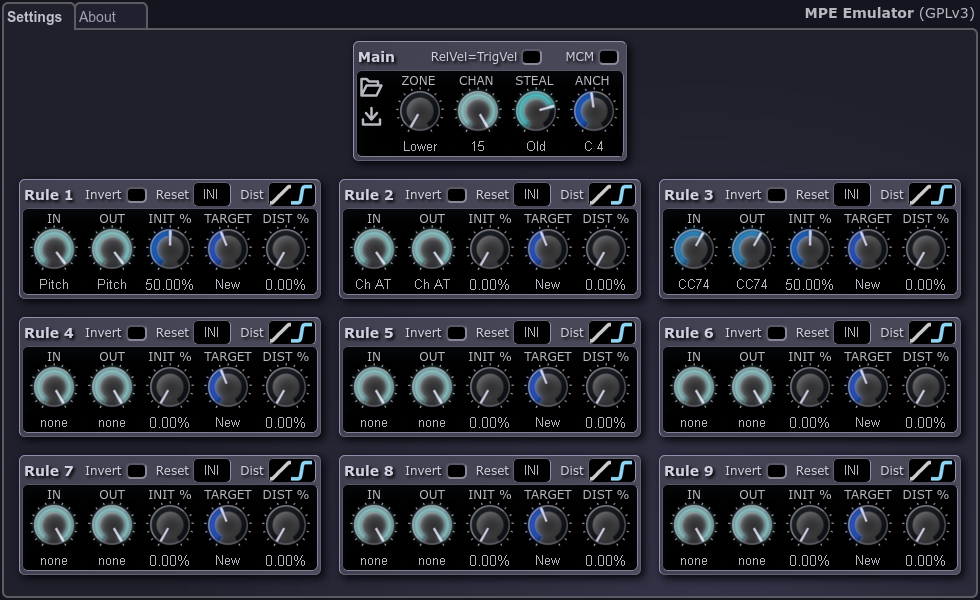
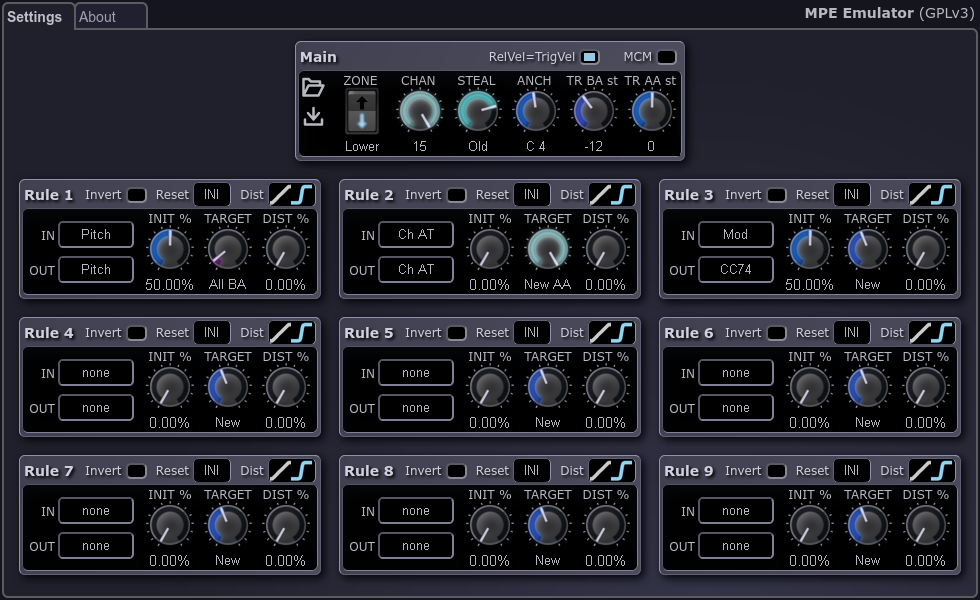
publish v1.0.0

diff --git a/index.html b/index.html
@@ -311,7 +311,7 @@ small {
     </div>
 
     <div id="download">
-      <h2 class="center">Download (v0.0.2)</h2>
+      <h2 class="center">Download (v1.0.0)</h2>
       <div class="section">
         <p class="center">
           <a href="#install-dist">Which distribution should I download?</a>
@@ -323,54 +323,76 @@ small {
               <h4>Windows and Linux, 64 bit and 32 bit</h4>
               <ul>
                 <li>
-                  VST 3 Bundle: <a href="https://github.com/attilammagyar/mpe-emulator/releases/download/v0.0.2/mpe-emulator-0_0_2-sse2-vst3_bundle.zip">Download (4.6M)</a>
+                  VST 3 Bundle: <a href="https://github.com/attilammagyar/mpe-emulator/releases/download/v1.0.0/mpe-emulator-1_0_0-sse2-vst3_bundle.zip">Download (4.6M)</a>
                 </li>
               </ul>
 
               <h4>Windows</h4>
               <ul>
                 <li>
-                  64-bit, VST 3 Single File: <a href="https://github.com/attilammagyar/mpe-emulator/releases/download/v0.0.2/mpe-emulator-0_0_2-windows-x86_64-sse2-vst3_single_file.zip">Download (1.3M)</a>
+                  64-bit, VST 3 Single File: <a href="https://github.com/attilammagyar/mpe-emulator/releases/download/v1.0.0/mpe-emulator-1_0_0-windows-x86_64-sse2-vst3_single_file.zip">Download (1.3M)</a>
                 </li>
                 <li>
-                  64-bit, FST (VST 2.4): <a href="https://github.com/attilammagyar/mpe-emulator/releases/download/v0.0.2/mpe-emulator-0_0_2-windows-x86_64-sse2-fst.zip">Download (1.1M)</a>
+                  64-bit, FST (VST 2.4): <a href="https://github.com/attilammagyar/mpe-emulator/releases/download/v1.0.0/mpe-emulator-1_0_0-windows-x86_64-sse2-fst.zip">Download (1.1M)</a>
                 </li>
                 <li>
-                  32-bit, VST 3 Single File: <a href="https://github.com/attilammagyar/mpe-emulator/releases/download/v0.0.2/mpe-emulator-0_0_2-windows-x86-sse2-vst3_single_file.zip">Download (1.3M)</a>
+                  32-bit, VST 3 Single File: <a href="https://github.com/attilammagyar/mpe-emulator/releases/download/v1.0.0/mpe-emulator-1_0_0-windows-x86-sse2-vst3_single_file.zip">Download (1.4M)</a>
                 </li>
                 <li>
-                  32-bit, FST (VST 2.4): <a href="https://github.com/attilammagyar/mpe-emulator/releases/download/v0.0.2/mpe-emulator-0_0_2-windows-x86-sse2-fst.zip">Download (1.1M)</a>
+                  32-bit, FST (VST 2.4): <a href="https://github.com/attilammagyar/mpe-emulator/releases/download/v1.0.0/mpe-emulator-1_0_0-windows-x86-sse2-fst.zip">Download (1.1M)</a>
                 </li>
               </ul>
 
               <h4>Linux</h4>
               <ul>
                 <li>
-                  64-bit, VST 3 Single File: <a href="https://github.com/attilammagyar/mpe-emulator/releases/download/v0.0.2/mpe-emulator-0_0_2-linux-x86_64-sse2-vst3_single_file.zip">Download (648K)</a>
+                  64-bit, VST 3 Single File: <a href="https://github.com/attilammagyar/mpe-emulator/releases/download/v1.0.0/mpe-emulator-1_0_0-linux-x86_64-sse2-vst3_single_file.zip">Download (664K)</a>
                 </li>
                 <li>
-                  64-bit, FST (VST 2.4): <a href="https://github.com/attilammagyar/mpe-emulator/releases/download/v0.0.2/mpe-emulator-0_0_2-linux-x86_64-sse2-fst.zip">Download (476K)</a>
+                  64-bit, FST (VST 2.4): <a href="https://github.com/attilammagyar/mpe-emulator/releases/download/v1.0.0/mpe-emulator-1_0_0-linux-x86_64-sse2-fst.zip">Download (492K)</a>
                 </li>
                 <li>
-                  32-bit, VST 3 Single File: <a href="https://github.com/attilammagyar/mpe-emulator/releases/download/v0.0.2/mpe-emulator-0_0_2-linux-x86-sse2-vst3_single_file.zip">Download (672K)</a>
+                  32-bit, VST 3 Single File: <a href="https://github.com/attilammagyar/mpe-emulator/releases/download/v1.0.0/mpe-emulator-1_0_0-linux-x86-sse2-vst3_single_file.zip">Download (684K)</a>
                 </li>
                 <li>
-                  32-bit, FST (VST 2.4): <a href="https://github.com/attilammagyar/mpe-emulator/releases/download/v0.0.2/mpe-emulator-0_0_2-linux-x86-sse2-fst.zip">Download (484K)</a>
+                  32-bit, FST (VST 2.4): <a href="https://github.com/attilammagyar/mpe-emulator/releases/download/v1.0.0/mpe-emulator-1_0_0-linux-x86-sse2-fst.zip">Download (500K)</a>
                 </li>
               </ul>
             </div>
           </div>
         </div>
 
+        <h3>MPE Emulator Lite</h3>
+        <ul>
+          <li>
+            MPE Emulator Lite for REAPER (JS): <a href="https://github.com/attilammagyar/mpe-emulator/releases/download/v1.0.0/MPE_Emulator_Lite-v1_0_0.jsfx">Download (68K)</a>
+          </li>
+        </ul>
+
         <h3>Source Code</h3>
         <ul>
           <li>
-            Source: <a href="https://github.com/attilammagyar/mpe-emulator/releases/download/v0.0.2/mpe-emulator-0_0_2-src.zip">Download (2.8M)</a>
+            Source: <a href="https://github.com/attilammagyar/mpe-emulator/releases/download/v1.0.0/mpe-emulator-1_0_0-src.zip">Download (3.2M)</a>
           </li>
         </ul>
       </div>
 
       <div class="section">
+        <h3>What's New in v1.0.0</h3>
+        <ul>
+          <li><p>Transpose the two sides of the split point independently from each other.
+          (E.g. extend the range of small keyboards, or play the same note with
+          different expression settings.)</p></li>
+          <li><p>The user interface has been revised in order to make it easier to select
+          controllers.</p></li>
+          <li><p>MPE Emulator Lite is a JS plugin for REAPER which implements most of
+          MPE Emulator's features, and it runs on any platform where REAPER runs
+          (including various Mac configurations).</p></li>
+          <li><p>Bugfix: the FST (VST 2) plugin will now export all its parameters.</p></li>
+          <li><p>Bugfix: the VST 3 plugin will now initialize and update its exported
+          parameters correctly.</p></li>
+        </ul>
+
         <h3>What's New in v0.0.2</h3>
         <ul>
           <li><p>When notes are released and new notes are triggered, channel allocation will
@@ -437,6 +459,7 @@ small {
 <ul>
 <li><a href="#toc">Table of Contents</a></li>
 <li><a href="#features">Features</a></li>
+<li><a href="#lite">MPE Emulator Lite</a></li>
 <li><a href="#install">Installation</a>
 <ul>
 <li><a href="#install-dist">Before Installing: Choosing a Distribution</a></li>
@@ -451,6 +474,7 @@ small {
 <li><a href="#vst3-bundle-linux">VST 3 Bundle on Linux</a></li>
 <li><a href="#vst3-single-windows">VST 3 Single File on Windows</a></li>
 <li><a href="#vst3-single-linux">VST 3 Single File on Linux</a></li>
+<li><a href="#install-lite">MPE Emulator Lite</a></li>
 </ul></li>
 <li><a href="#usage">Usage</a>
 <ul>
@@ -493,16 +517,27 @@ small {
 vice-versa.</li>
 <li>Invert MIDI expression and controller data, and apply various other
 distortions.</li>
-<li>Use the trigger velocity of notes as release velocity for synths that can
+<li>Use the trigger velocity of notes as release velocity for synths that
 utilize it.</li>
 <li>Split the keyboard and route polyphonic expressions to the two halves with
 different rules.</li>
+<li>Transpose the two sides of the split point independently from each other.
+(E.g. extend the range of small keyboards, or play the same note with
+different expression settings.)</li>
 <li>Route various expressions and controllers to the lowest, highest, oldest, or
 newest note globally, or across the split halves of the keyboard.</li>
 <li>MIDI Learn.</li>
 </ul>
 
 <p><a href="#toc">Table of Contents</a></p>
+
+<p><a id="lite"></a></p>
+
+<h2>MPE Emulator Lite</h2>
+
+<p>MPE Emulator Lite is a platform-independent JS plugin for
+<a href="https://http://reaper.fm/">REAPER</a> v6.74 and above which provides the most
+fundamental <a href="#features">features</a> of MPE Emulator.</p>
 
 <p><a id="install"></a></p>
 
@@ -577,6 +612,12 @@ SSE2 support.</li>
 <li><p><code>mpe-emulator-X_Y_Z-linux-x86-sse2-vst3_single_file.zip</code>: for
 32 bit CPUs with SSE2 support.</p></li>
 </ul></li>
+<li><p>MPE Emulator Lite for any platform that is supported by
+<a href="https://reaper.fm/">REAPER</a>:</p>
+
+<ul>
+<li><code>MPE_Emulator_Lite-vX_Y_Z.jsfx</code></li>
+</ul></li>
 <li><p>Source:</p>
 
 <ul>
@@ -600,6 +641,9 @@ compile for any CPU architecture. (See the "Development" section below.)</li>
 <p>The plugin can also be compiled for RISC-V 64 from its source code.</p>
 
 <p>Tested with <a href="https://www.reaper.fm/">REAPER</a> 7.17.</p>
+
+<p>MPE Emulator Lite runs on any operating system and CPU where REAPER runs. The
+required minimum version of REAPER is v6.74.</p>
 
 <p><a id="windows-deps"></a></p>
 
@@ -709,6 +753,18 @@ is usually <code>~/.vst3</code>.</li>
 <code>~/.vst3</code>.</li>
 </ol>
 
+<p><a id="install-lite"></a></p>
+
+<h3>MPE Emulator Lite</h3>
+
+<ol>
+<li><a href="https://attilammagyar.github.io/mpe-emulator">Download MPE Emulator Lite</a>.</li>
+<li>Copy <code>MPE_Emulator_Lite-vX_Y_Z.jsfx</code> to the <code>Effects</code> folder of REAPER.</li>
+</ol>
+
+<p>Refer to <a href="https://reaper.fm/userguide.php">REAPER's User Guide</a> for more
+information on installing JS plugins.</p>
+
 <p><a href="#toc">Table of Contents</a></p>
 
 <p><a id="usage"></a></p>
@@ -720,11 +776,12 @@ synthesizer plugin in the plugin host application. The exact steps to set up
 MIDI routing vary between different plugin host applications, so consult the
 documentation of your one.</p>
 
-<p class="center">
-  <a class="img" href="mpe-emulator-signal-chain.svg" target="_blank">
-    <img class="signal-chain-img" src="mpe-emulator-signal-chain.svg" alt="Signal Chain" />
-  </a>
-</p>
+<pre><code>+---------------+ single channel +--------------+           +-------------+
+|               | raw MIDI data  |              | MPE data  |             |
+| MIDI keyboard |---------------&gt;| MPE Emulator |----------&gt;| Synthesizer |
+|               |                |              |           |             |
++---------------+                +--------------+           +-------------+
+</code></pre>
 
 <p><a id="usage-knobs"></a></p>
 
@@ -790,7 +847,7 @@ or don't bother, because the synthesizer would just ignore them anyways.</p>
 
 <h4>Zone Type (ZONE, Z1TYP)</h4>
 
-<p>Select the channel layout used by MPE Emulator:</p>
+<p>Click on the switch to change the channel layout used by MPE Emulator:</p>
 
 <ul>
 <li><p><strong>Lower</strong>: channel 1 is the manager channel, channel 2-16 can be used as
@@ -825,10 +882,28 @@ the new note is played on the channel where it used to be.</p></li>
 
 <h4>Anchor (ANCH, Z1ANC)</h4>
 
-<p>A split point for the keyboard. Expression and controller events can be applied
-differently to each side of the split point. For example, one may want to send
-channel pressure (aftertouch) events only to the newest or the highest note
-above A3, but not to bass notes or chords played with the left hand.</p>
+<p>A split point for the keyboard. Each side of the keyboard can be
+<a href="#usage-zone-transpose-below">transposed</a> independently from each other, and
+expression and controller events can be applied differently to them. For
+example, one may want to send channel pressure (aftertouch) events only to the
+newest or the highest note above A3, but not to bass notes or chords played
+with the left hand.</p>
+
+<p><a id="usage-zone-transpose-below"></a></p>
+
+<h4>Transpose Below Anchor (TR BA, Z1TRB)</h4>
+
+<p>Select how many semitones notes below the <a href="#usage-zone-anchor">anchor</a> should
+be transposed up or down. This can be useful e.g. for extending the range of
+small keyboards with only a few octaves, or for playing the same note with
+different expression settings.</p>
+
+<h4>Transpose Above Anchor (TR AA, Z1TRA)</h4>
+
+<p>Select how many semitones notes above the <a href="#usage-zone-anchor">anchor</a> should
+be transposed up or down. This can be useful e.g. for extending the range of
+small keyboards with only a few octaves, or for playing the same note with
+different expression settings.</p>
 
 <p><a href="#toc">Table of Contents</a></p>
 
@@ -840,36 +915,46 @@ above A3, but not to bass notes or chords played with the left hand.</p>
 
 <h4>Input (IN, Z1RxIN)</h4>
 
-<p>The input controller (MIDI CC) type for the rule. CC events that are not
-matched by any rule's input settings are sent globally on the manager channel,
-and those that are matched by one or more rules are handled as the rules
-specify. The possible values are:</p>
+<p>Click on the box next to the "IN" label to select an input controller (MIDI CC)
+for the rule. CC events that are not matched by any rule's input settings are
+sent globally on the manager channel, and those that are matched by one or more
+rules are handled as the rules specify. The possible values are:</p>
 
 <ul>
-<li><p><strong>CC0</strong> - <em>CC119</em>: normal MIDI CC numbers that are usually assigned to various
-knobs and faders on a MIDI keyboard. (Note: the mod wheel is <em>CC1</em>.)</p></li>
-<li><p><strong>Pitch</strong>: the pitch wheel.</p></li>
-<li><p><strong>Ch AT</strong>: channel pressure, also known as channel aftertouch.</p></li>
-<li><p><strong>Learn</strong>: MIDI learn, which means that the first controller message that is
-received after setting this option will be assigned to the input of the
-rule.</p></li>
 <li><p><strong>none</strong>: turn off the rule entirely.</p></li>
+<li><p><strong>MIDI Learn</strong>: the first controller message that is received after
+selecting this option will be assigned to the input of the rule.</p></li>
+<li><p><strong>Pitch Wheel</strong>: the pitch wheel.</p></li>
+<li><p><strong>Channel Pressure (Aftertouch)</strong>: channel pressure, also known as channel
+aftertouch.</p></li>
+<li><p><strong>CC0</strong> - <em>CC119</em>: normal MIDI CC numbers that are usually assigned to
+various knobs and faders on a MIDI keyboard. (Note: the mod wheel is <em>CC1</em>.)</p></li>
 </ul>
+
+<p><strong>Note</strong>: if you accidentally open the controller selector, just click on the
+already selected item to close it.</p>
 
 <p><a id="usage-rule-out"></a></p>
 
 <h4>Output (OUT, Z1RxOU)</h4>
 
-<p>The output controller (MIDI CC) type for the rule. Usually it should be the
-same as the <a href="#usage-rule-in">input</a>, but in some cases, you might want to remap
-a particular controller to another. For example, if your MIDI keyboard does not
-have channel pressure (aftertouch) functionality, but it has some special
-function in a particular synthesizer, then you can remap e.g. mod wheel events
-to be sent as channel pressure: assign the mod wheel to the input, and select
-channel aftertouch for the output, and then whenever you turn the mod wheel,
-the synthesizer will receive an aftertouch message instead of it.
-(Unfortunately, aftertouch is known to have some
+<p>Click on the box next to the "OUT" label to select the output controller (MIDI
+CC) for the rule. Usually it should be the same as the <a href="#usage-rule-in">input</a>,
+but in some cases, you might want to remap a particular controller to another.
+For example, if your MIDI keyboard does not have channel pressure (aftertouch)
+functionality, but aftertouch is assigned to some functionality in a particular
+synthesizer, then you can remap e.g. mod wheel events to be sent as channel
+pressure: assign the mod wheel to the input, and select channel aftertouch for
+the output, and then whenever you turn the mod wheel, the synthesizer will
+receive an aftertouch message instead of it. (Unfortunately, aftertouch is
+known to have some
 <a href="#bugs-known">bugs and quirks in some plugin type and host combinations</a>.)</p>
+
+<p>The available options are the same as for the <a href="#usage-rule-in">input</a>, but the
+<strong>MIDI Learn</strong> option is ignored for this parameter.</p>
+
+<p><strong>Note</strong>: if you accidentally open the controller selector, just click on the
+already selected item to close it.</p>
 
 <p><a id="usage-rule-init"></a></p>
 
@@ -1094,8 +1179,7 @@ pressure, and CC 74 (a.k.a. Brightness, Timbre, Sound 5, etc.) with polyphony,
 because these are the ones that are mandated by the standard. If you set up a
 rule in MPE Emulator to make e.g. the mod wheel polyphonic and the synthesizer
 ignores it or still applies it globally, then MPE Emulator has no influence on
-it, and the synthesizer is doing nothing wrong with respect to the
-standard.</p>
+it, and the synthesizer is doing nothing wrong with respect to the standard.</p>
 
 <p>Most DAW applications have a plugin or a special tool which lets you peek into
 the raw MIDI messages that are sent and received by each plugin, bus, and MIDI
@@ -1120,6 +1204,12 @@ MacOS would be available (at a reasonable price) for installing it in a virtual
 machine that could be used for testing, I'd consider that. But as long as it
 cannot be obtained (legally) without also buying a Mac, and I'm happy with my
 current computer, I'm not going to invest in a new one.</p>
+
+<p>If you use <a href="https://www.reaper.fm/">REAPER</a> (or any DAW which supports REAPER's
+<a href="https://www.reaper.fm/sdk/js/js.php">JSFX</a> plugin format), then you should try
+<a href="#lite">MPE Emulator Lite</a> which implements most of MPE Emulator's features,
+and it runs on any platform that is supported by REAPER, including various Mac
+configurations.</p>
 
 <p><a href="#toc">Table of Contents</a></p>
 
